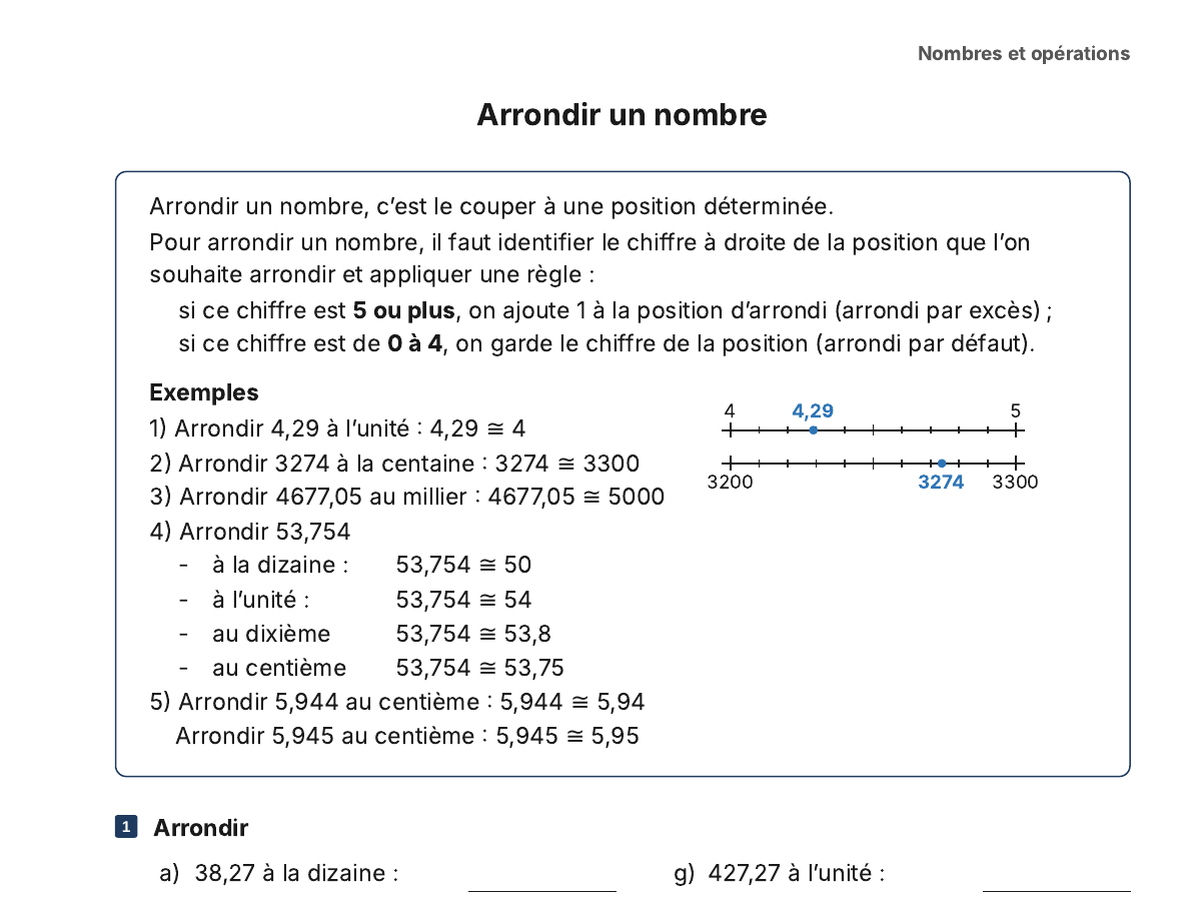
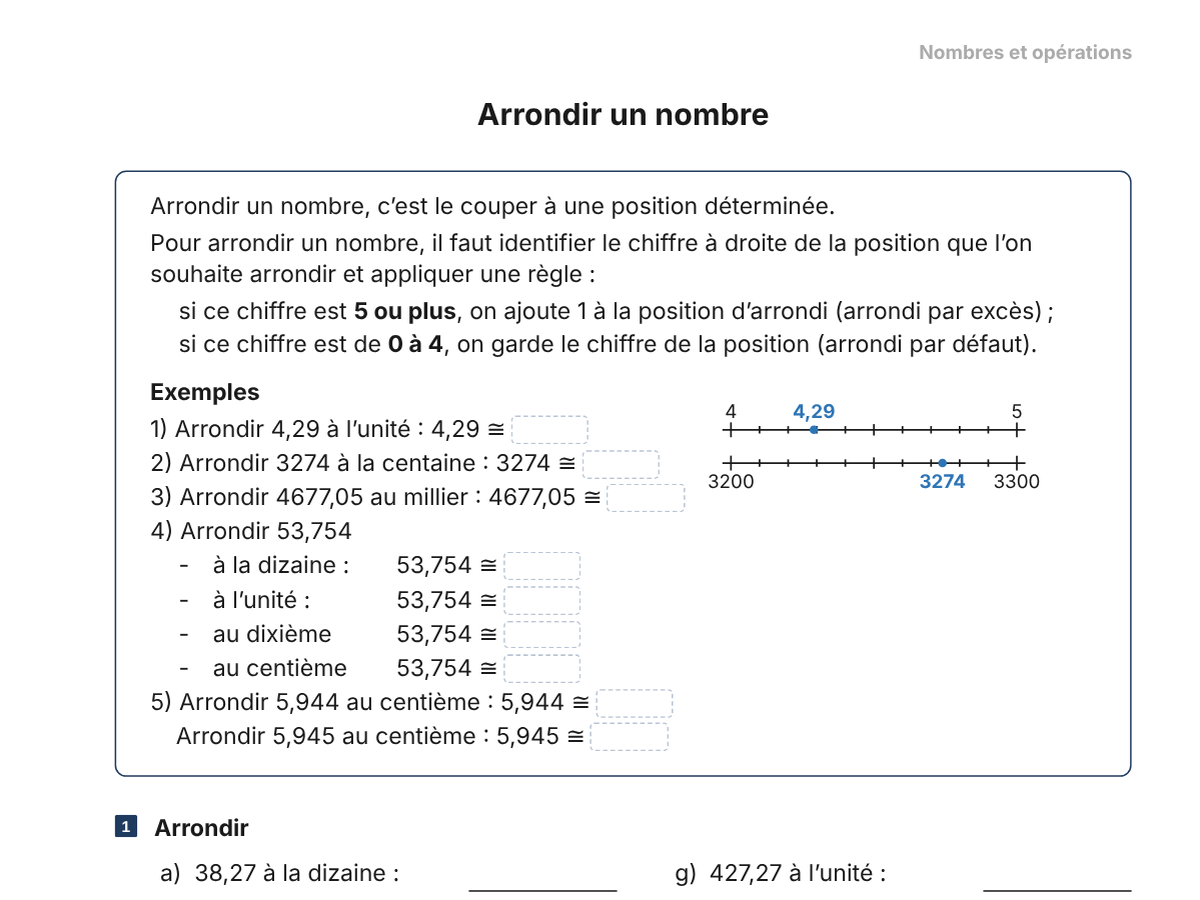
Aperçus Padlet : NO_arrondir_nombre actualisé, NO_arrondir_exercices avec son propre aperçu
Claude-Session: https://claude.ai/code/session_013Ryes6nvaqtqMiuyvPtswc

diff --git a/NO_arrondir_exercices.html b/NO_arrondir_exercices.html
@@ -5,10 +5,10 @@
 <meta name="viewport" content="width=device-width, initial-scale=1">
 <title>Nombres et opérations – Arrondir un nombre – exercices</title>
 <!-- aperçu pour Padlet et les autres sites qui affichent une vignette du lien -->
-<meta property="og:title" content="Nombres et opérations – Arrondir un nombre">
+<meta property="og:title" content="Nombres et opérations – Arrondir un nombre – exercices">
 <meta property="og:type" content="website">
-<meta property="og:url" content="https://aureliohub.github.io/NO_arrondir.html">
-<meta property="og:image" content="https://aureliohub.github.io/apercus/NO_arrondir.png">
+<meta property="og:url" content="https://aureliohub.github.io/NO_arrondir_exercices.html">
+<meta property="og:image" content="https://aureliohub.github.io/apercus/NO_arrondir_exercices.png">
 <meta property="og:image:width" content="1200">
 <meta property="og:image:height" content="900">
 
